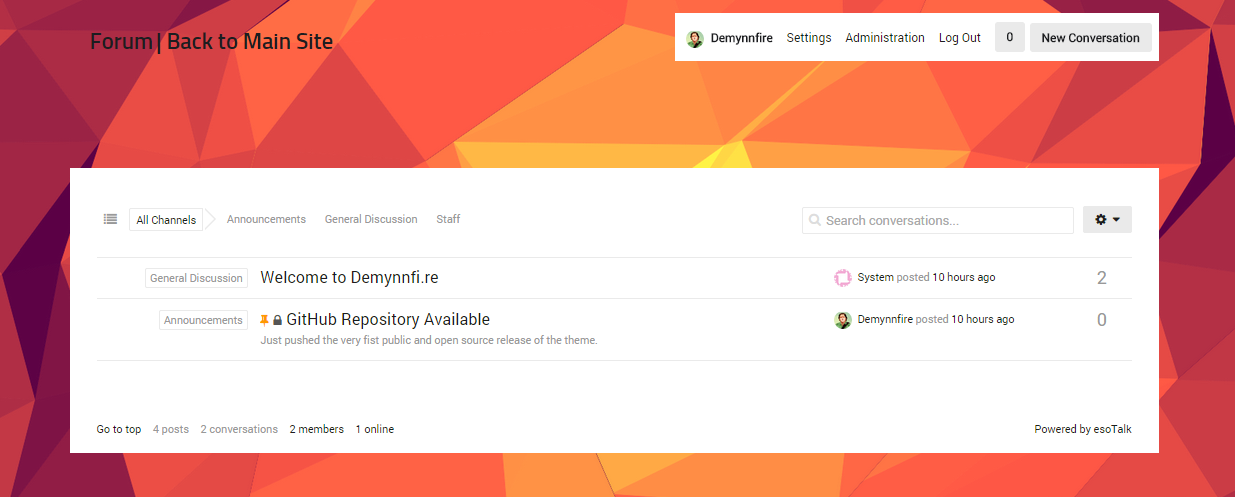
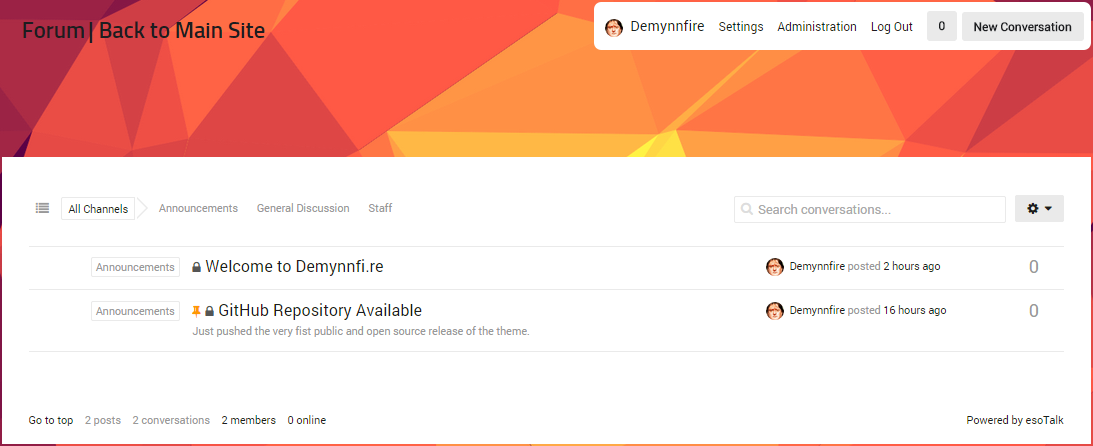
Style changes
Minor style changes

diff --git a/resources/styles.css b/resources/styles.css
@@ -69,7 +69,7 @@ p, ul, pre {line-height:1.6em}
 
 /* Layout */
 #hdr-content, #body-content, #ftr-content {margin:0 auto; min-width:760px; max-width:1150px; padding:0 30px}
-#body-content, #ftr-content {background-color:#fff}
+#body-content, #ftr-content {background-color: #fff}
 #body-content {padding-bottom:50px; padding-top: 25px; margin-top:50px}
 #body {padding-top:60px}
 
@@ -89,9 +89,8 @@ p, ul, pre {line-height:1.6em}
 
 #mainMenu {margin-left:30px; display:inline; padding:18px 0}
 #mainMenu .forumtitle {color:#fff}
-#userMenu {float:right; padding:18px 0; margin-right:-580px; margin-left:-18px;}
-#userMenu {background-color: #fff; padding-right: 8px;}
-#userMenu .item-user {font-weight:600}
+#userMenu {border-radius: 8px; float:right; padding:18px 0; margin-right:-580px; margin-left:-18px; background-color: #fff; padding-right: 8px;}
+#userMenu .item-user {font-size:16px}
 #userMenu .item-user .avatar {vertical-align:middle; margin:-5px 8px -5px 0}
 #userMenu.menu > li {margin-left:12px; text-align:left}
 
